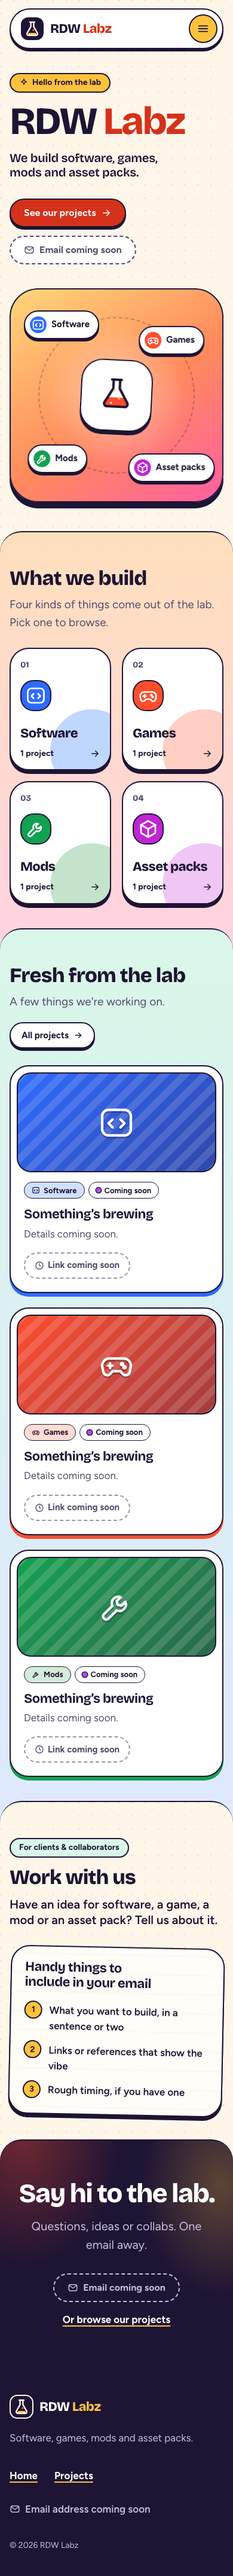
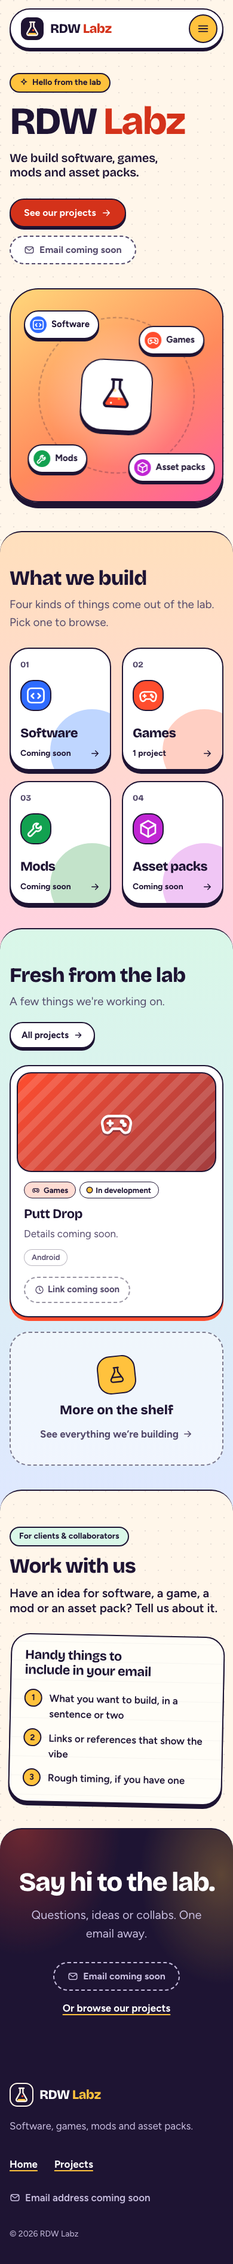
Content update

diff --git a/src/lib/projects.ts b/src/lib/projects.ts
@@ -100,15 +100,20 @@ export function displayProject(p: Project) {
 
 export type DisplayProject = ReturnType<typeof displayProject>;
 
+/** Entries whose name is still TODO are never shown or counted. */
+const realProjects = projects.filter((p) => !isTodo(p.name));
+
 export const featuredProjects = (): DisplayProject[] =>
-  projects.filter((p) => p.featured).map(displayProject);
+  realProjects.filter((p) => p.featured).map(displayProject);
 
-export const allProjects = (): DisplayProject[] => projects.map(displayProject);
+export const allProjects = (): DisplayProject[] => realProjects.map(displayProject);
 
-export const countIn = (id: CategoryId): number => projects.filter((p) => p.category === id).length;
+export const countIn = (id: CategoryId): number =>
+  realProjects.filter((p) => p.category === id).length;
 
-export const countLabel = (n: number): string =>
-  n === 0 ? 'Nothing here yet' : `${n} project${n === 1 ? '' : 's'}`;
+export const pluralProjects = (n: number): string => `${n} project${n === 1 ? '' : 's'}`;
+
+export const countLabel = (n: number): string => (n === 0 ? 'Coming soon' : pluralProjects(n));
 
 /** Category blurb from data, or null while it is still TODO (UI then shows only the count). */
 export const categoryBlurb = (c: Category): string | null => (isTodo(c.blurb) ? null : c.blurb);

diff --git a/tests/site.spec.ts b/tests/site.spec.ts
@@ -115,6 +115,21 @@ test('projects: empty state when a category has no projects', async ({ page }) =
   await expect(page.locator('[data-filter="all"]')).toBeFocused();
 });
 
+test('placeholder entries are never shown or counted', async ({ page }) => {
+  for (const path of ['/', '/projects']) {
+    await page.goto(path);
+    await expect(page.locator('.project-card.is-placeholder')).toHaveCount(0);
+    await expect(page.getByText('Something’s brewing')).toHaveCount(0);
+    await expect(page.locator('main')).not.toContainText(/\b(0|1) projects\b/);
+  }
+  await page.goto('/projects');
+  for (const count of await page.locator('.chip-filter__count').all()) {
+    await expect(count).not.toHaveText('0');
+  }
+  const cards = await page.locator('[data-project-grid] > li').count();
+  await expect(page.locator('[data-filter="all"] .chip-filter__count')).toHaveText(String(cards));
+});
+
 test('projects: unknown ?c= falls back to All', async ({ page }) => {
   await page.goto('/projects?c=nope');
   await expect(page.locator('[data-filter="all"]')).toHaveAttribute('aria-pressed', 'true');

diff --git a/src/scripts/filters.ts b/src/scripts/filters.ts
@@ -37,7 +37,7 @@ export function initFilters() {
       const noun = `project${shown === 1 ? '' : 's'}`;
       status.textContent =
         id === 'all'
-          ? `Showing all ${shown} ${noun}.`
+          ? `Showing ${shown === 1 ? '' : 'all '}${shown} ${noun}.`
           : `Showing ${shown} ${noun} in ${chipLabel(id)}.`;
     }
   };
